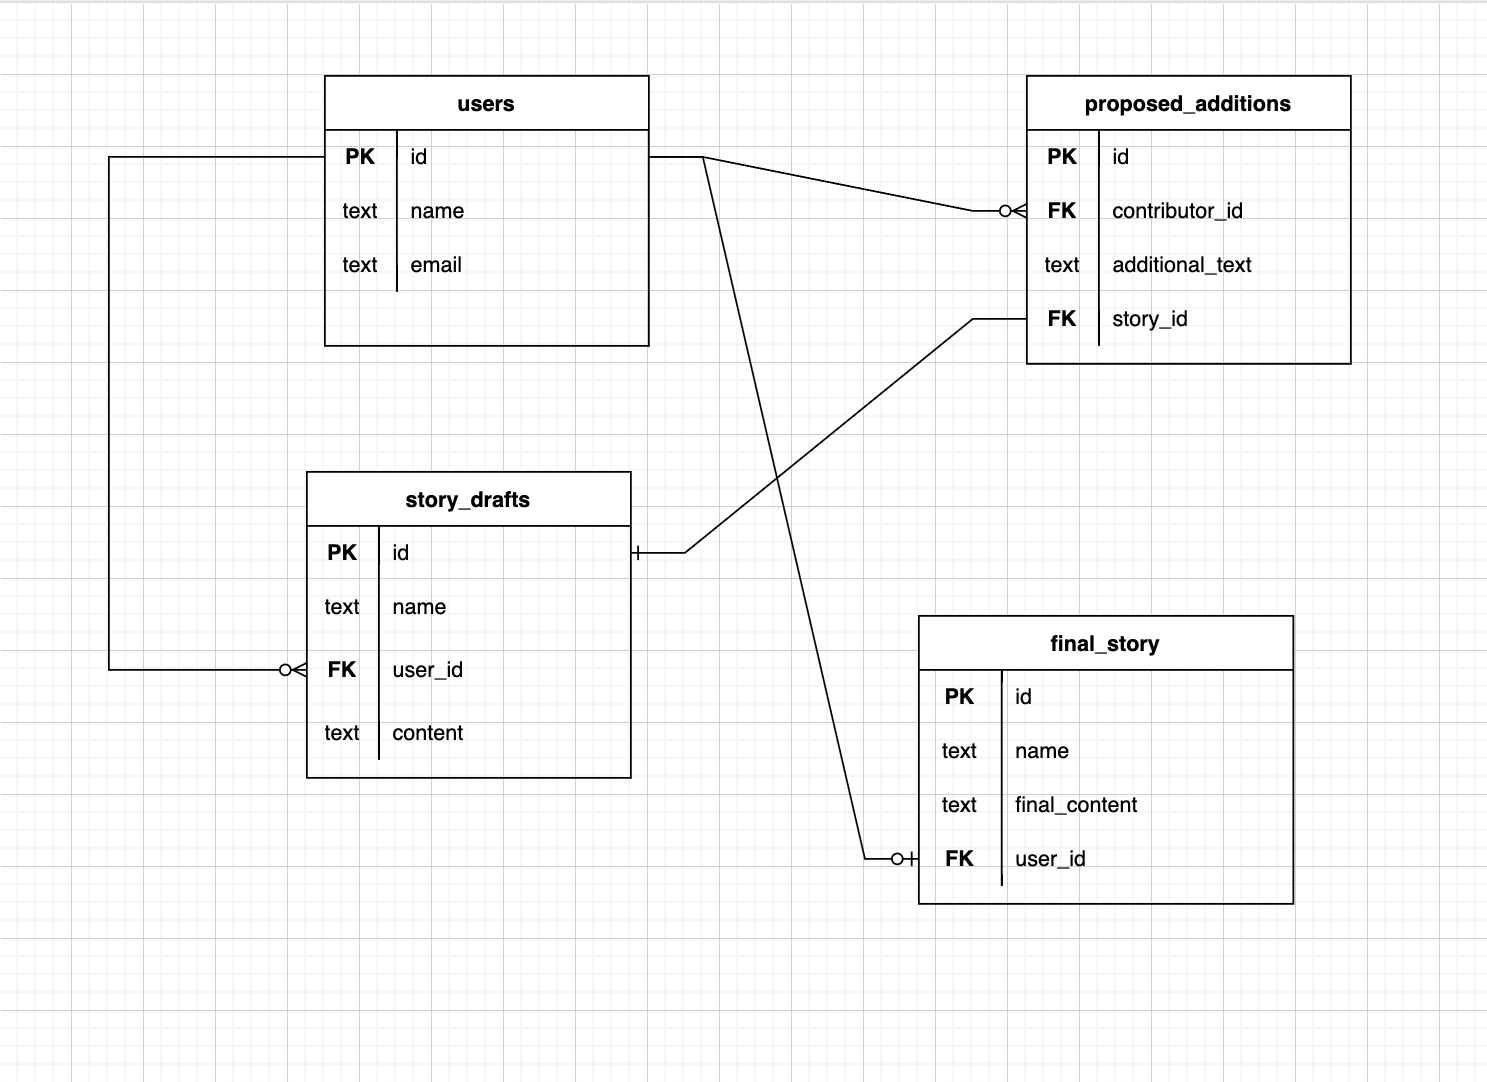
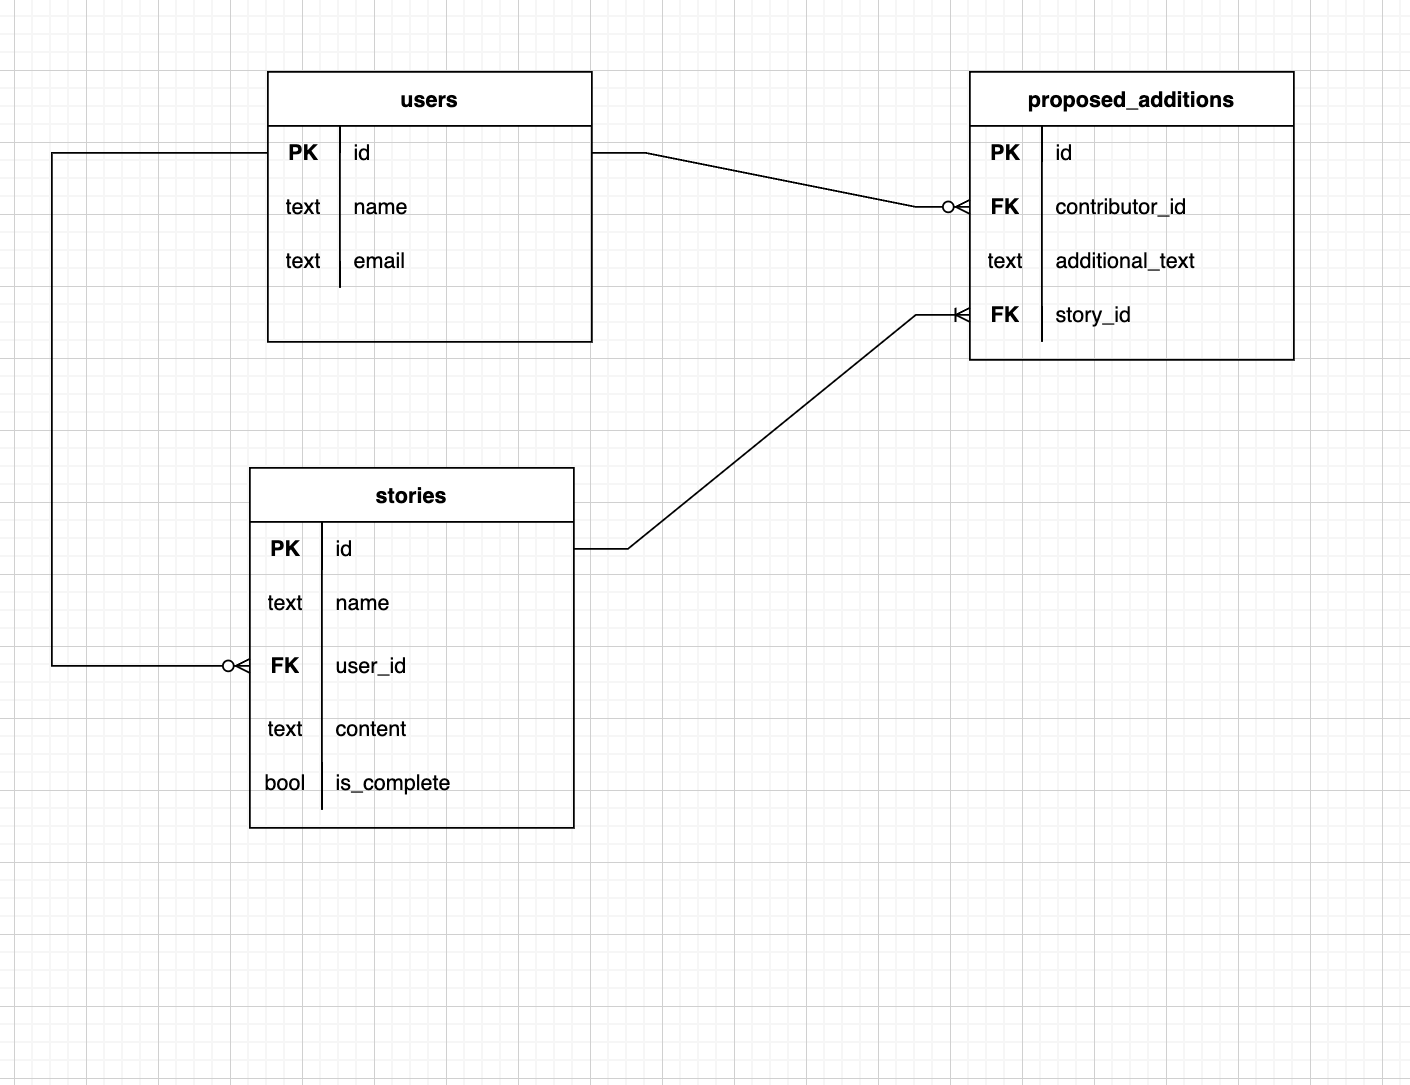
change RDC and associate tables. Remove final stories table NC

diff --git a/public/scripts/databaseHelpers.js b/public/scripts/databaseHelpers.js
@@ -22,7 +22,7 @@ const listUsers = function() {
 
 }
 
-listUsers()
+// listUsers()
 
 
 //function that finds user object by username
@@ -42,10 +42,10 @@ const findUserByUsername = function(username) {
 // findUserByUsername('Kira')
 
 
-//function that fetches all data from the stories. Prints ALL stories
+//function that fetches the unfinished stories
 const fetchStoryDrafts = function() {
   return pool
-  .query(`SELECT * FROM story_drafts;`)
+  .query(`SELECT * FROM stories WHERE is_complete = false;`)
   .then((result) => {
     console.log(result.rows)
   })
@@ -59,10 +59,10 @@ const fetchStoryDrafts = function() {
 
 
 
-//function that fetches all data from the stories. Prints ALL stories
+//function that fetches all data from the completed stories
 const fetchFinalStories = function() {
   return pool
-  .query(`SELECT * FROM final_stories;`)
+  .query(`SELECT * FROM stories WHERE is_complete = true;`)
   .then((result) => {
     console.log(result.rows)
   })
@@ -80,9 +80,9 @@ const fetchFinalStories = function() {
 const findStoryMaybes = function(storyID) {
   return pool
   .query(`
-  SELECT proposed_additions.id, contributor_id, additional_text, story_id, name, story_drafts.user_id, content
+  SELECT proposed_additions.id, contributor_id, additional_text, story_id, name, stories.user_id, content
   FROM proposed_additions
-  JOIN story_drafts ON story_drafts.id = story_id
+  JOIN stories ON stories.id = story_id
   WHERE story_id = ${storyID} ORDER BY proposed_additions.id DESC`)
   .then((result) => {
     console.log(result.rows)
@@ -149,5 +149,40 @@ const upvote = function(proposedAdditionID) {
 // upvote(2)
 
 
+const markComplete = function(storyID) {
+  return pool
+  .query (`UPDATE stories SET is_complete = true WHERE id = ${storyID};`)
+  .then((result) => {
+    console.log('marked story complete')
+  })
+  .catch((err) => {
+    console.log(err.message);
+    return null;
+  })
+}
 
-module.exports = { listUsers, findUserByUsername, fetchStoryDrafts, fetchFinalStories, addUserToDatabase, findStoryMaybes, addProposedAddition, upvote }
+// markComplete(1);
+
+
+//function that adds story to database and removes from another
+//THIS MIGHT BE DIFFICULT TO IMPLEMENT??
+//KEEPING IN CASE I REVERT THIS DECISION
+// const markCompleteTableShuffle = function(storyDraftID, storyDraftContent, storyDraftTitle, userID) {
+//   return pool
+//   .query (`DELETE FROM stories WHERE id = ${storyDraftID}; INSERT INTO final_stories (name, content, user_id) VALUES ('${storyDraftTitle}', '${storyDraftContent}', ${userID})`)
+//   .then((result) => {
+//     console.log('added likes to database')
+//   })
+//   .catch((err) => {
+//     console.log(err.message);
+//     return null;
+//   })
+
+// }
+
+// markCompleteTableShuffle(4, 'This is the whole story', 'My Story', 3)
+
+
+
+
+module.exports = { listUsers, findUserByUsername, fetchStoryDrafts, fetchFinalStories, addUserToDatabase, findStoryMaybes, addProposedAddition, upvote, markComplete }

diff --git a/public/scripts/addStorySnippets.js b/public/scripts/addStorySnippets.js
@@ -12,7 +12,7 @@ const pool = new Pool({
 //might not need, but made it along the way
 const selectMainContent = function(mainStoryID) {
   return pool
-  .query(`SELECT content FROM story_drafts WHERE id = ${mainStoryID}`)
+  .query(`SELECT content FROM stories WHERE id = ${mainStoryID}`)
   .then((result) => {
     console.log(result.rows)
   })
@@ -46,15 +46,15 @@ const selectWinningText = function(snippetID) {
 const addWinningTextToDatabase = function(mainStoryID, snippetID) {
   return pool
   .query(`
-  UPDATE story_drafts
-  SET content = CONCAT(story_drafts.content, ' ', (
+  UPDATE stories
+  SET content = CONCAT(stories.content, ' ', (
     SELECT additional_text
     FROM proposed_additions
     WHERE proposed_additions.id = ${snippetID}))
-  WHERE story_drafts.id = ${mainStoryID};
+  WHERE stories.id = ${mainStoryID};
   `)
   .then((result) => {
-    console.log('Added text from proposed_additions.id', snippetID, 'story_drafts.id', mainStoryID)
+    console.log('Added text from proposed_additions.id', snippetID, 'stories.id', mainStoryID)
 
   })
   .catch((err) => {
@@ -65,7 +65,7 @@ const addWinningTextToDatabase = function(mainStoryID, snippetID) {
 }
 
 
-addWinningTextToDatabase(1, 6)
+// addWinningTextToDatabase(1, 6)
 
 
 module.exports = { selectMainContent, selectWinningText, addWinningTextToDatabase }
